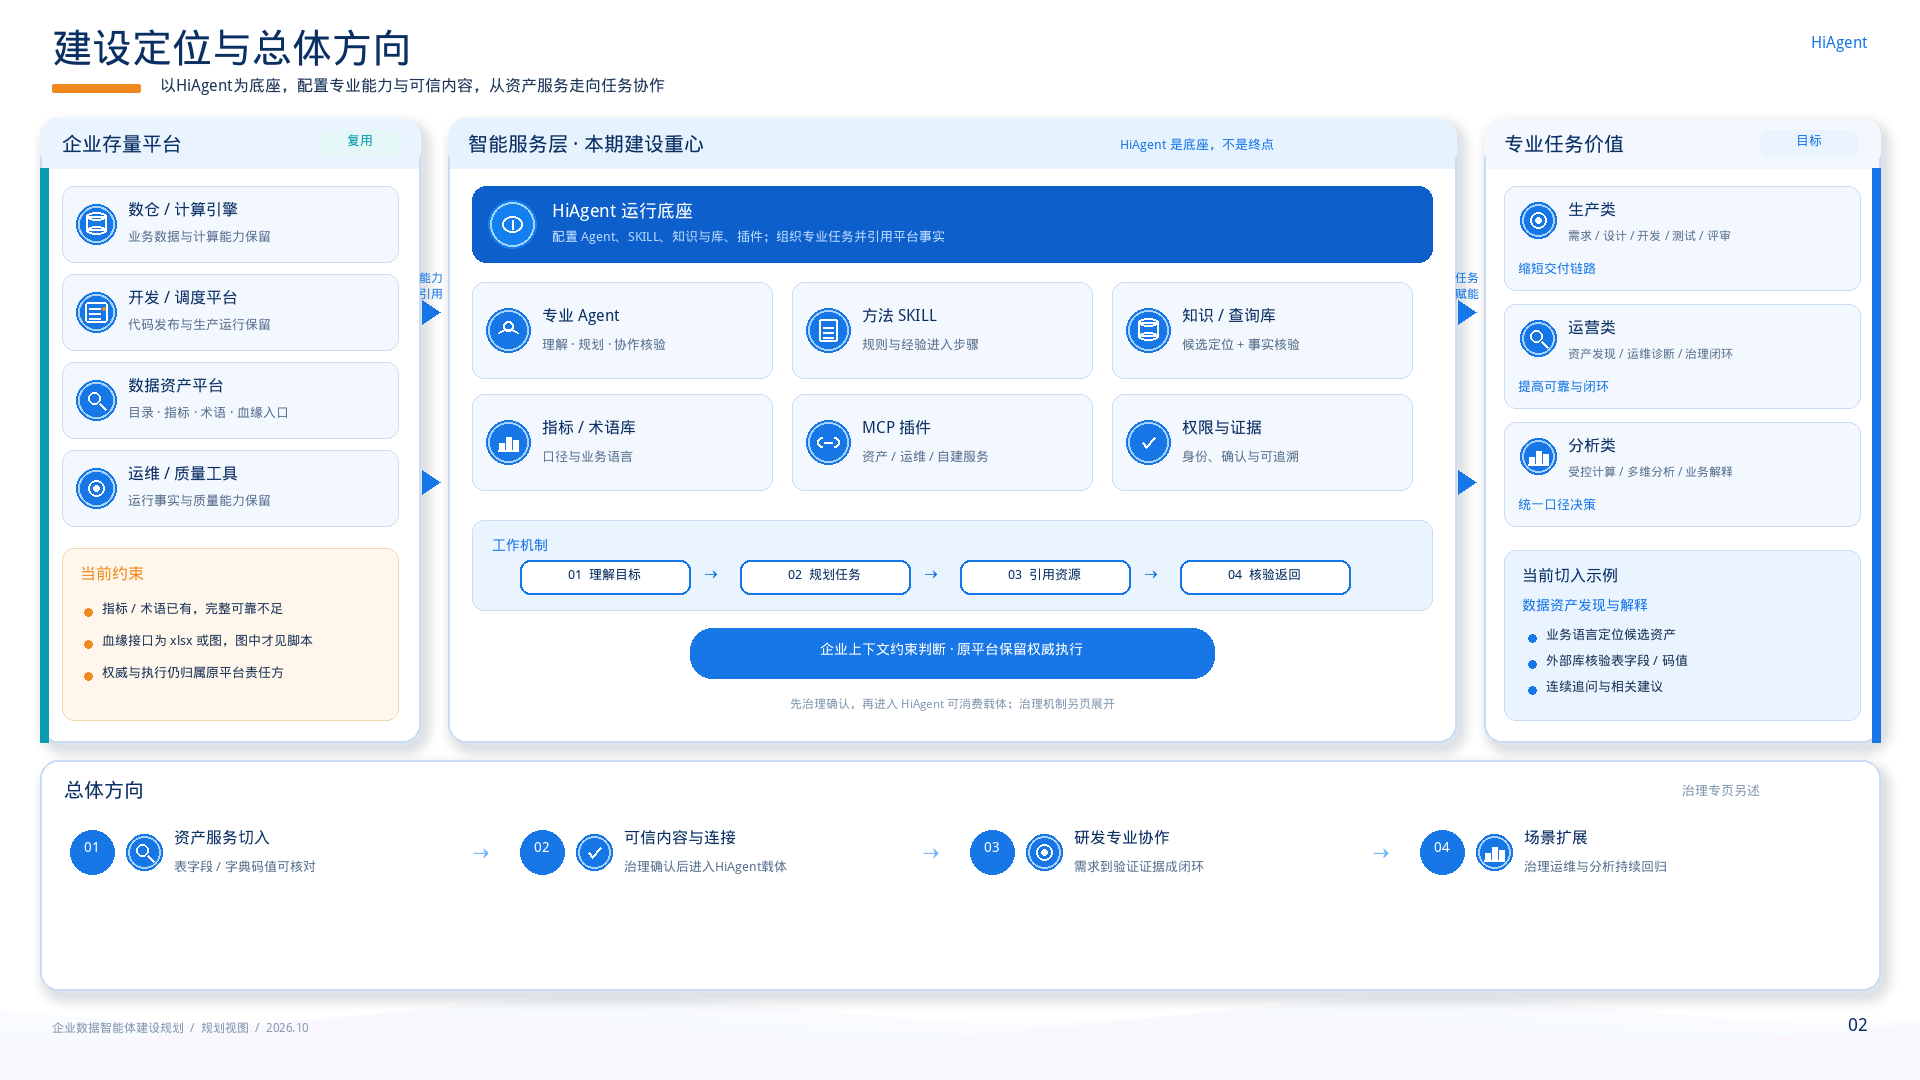
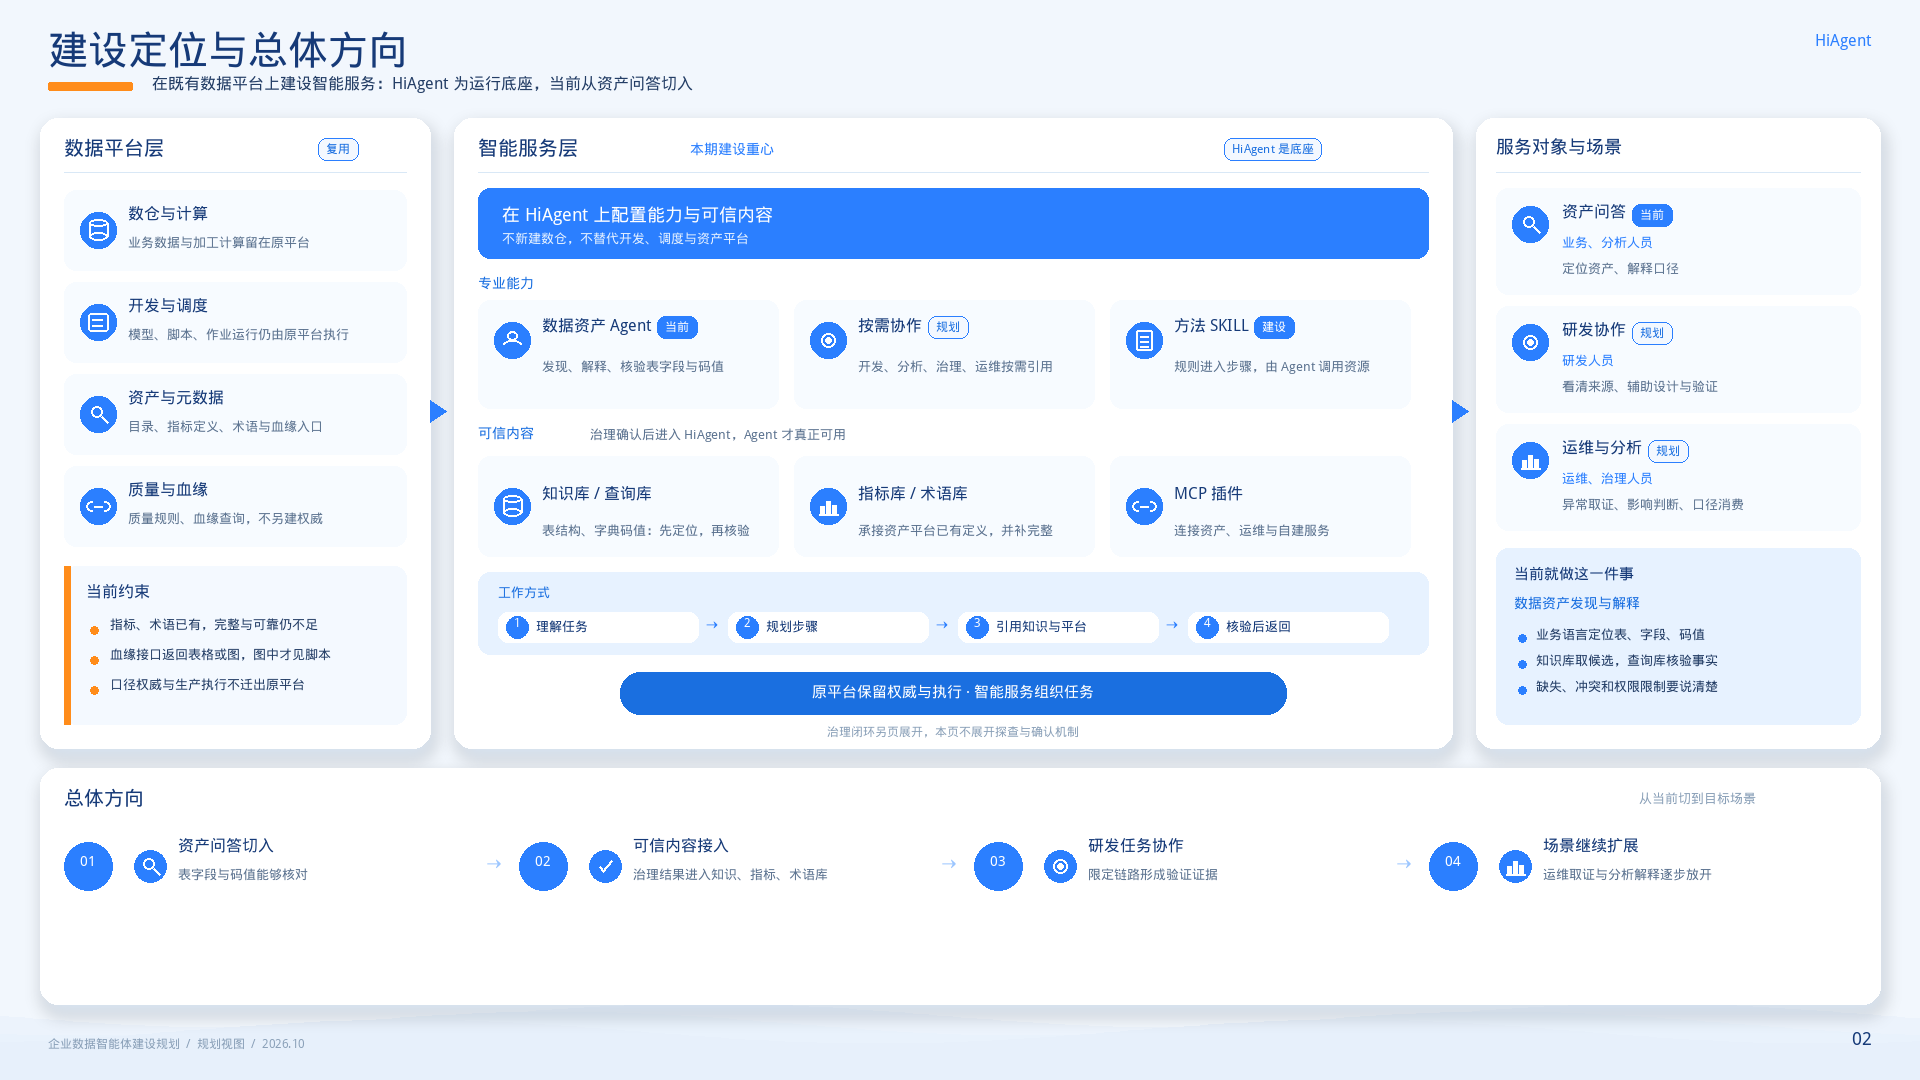
docs: 按客户架构分层重调第02页内容与配色
保留左中右加底栏，配色改为浅蓝底白卡片；内容改为数据平台层、智能服务层与服务场景，并标明当前与规划边界。

diff --git a/docs/planning/hiagent-leadership-report/v7-illustrated/pages/02.py b/docs/planning/hiagent-leadership-report/v7-illustrated/pages/02.py
@@ -1,100 +1,98 @@
 s=new('建设定位与总体方向｜在既有平台上建设智能服务层','一、场景与价值')
-# Layout mirrors reference scenario pages: left reuse / center build focus / right value / bottom direction.
+# Left: data platform to reuse. Center: HiAgent service focus. Right: audiences and scenes.
 
-# LEFT — enterprise platforms to reuse, with current constraints.
-surface(s,.42,1.14,2.95,5.20,WHITE,BORDER)
-surface(s,.42,1.14,2.95,.42,PALE,None)
-tx(s,.58,1.20,1.70,.30,'企业存量平台',16,TITLE,True)
-strip(s,2.45,1.20,.75,'复用',MINT,TEAL,11,h=.28)
-box(s,.42,1.56,.045,4.78,TEAL)
+surface(s,.38,1.12,3.05,5.28,WHITE,BORDER)
+tx(s,.54,1.22,1.70,.28,'数据平台层',16,TITLE,True)
+strip(s,2.35,1.22,.88,'复用',PALE,BLUE,11,h=.28)
+line(s,.54,1.62,3.22,1.62,BORDER,.6)
 for i,(title,body,kind) in enumerate([
-    ('数仓 / 计算引擎','业务数据与计算能力保留','data'),
-    ('开发 / 调度平台','代码发布与生产运行保留','code'),
-    ('数据资产平台','目录 · 指标 · 术语 · 血缘入口','search'),
-    ('运维 / 质量工具','运行事实与质量能力保留','platform'),
+    ('数仓与计算','业务数据与加工计算留在原平台','data'),
+    ('开发与调度','模型、脚本、作业运行仍由原平台执行','code'),
+    ('资产与元数据','目录、指标定义、术语与血缘入口','search'),
+    ('质量与血缘','质量规则、血缘查询，不另建权威','flow'),
 ]):
-    yy=1.70+i*.72
-    surface(s,.58,yy,2.62,.64,SOFT,None)
-    iso(s,.68,yy+.05,.42,kind)
-    tx(s,1.20,yy+.08,1.88,.24,title,12.5,TITLE,True)
-    tx(s,1.20,yy+.34,1.88,.24,body,10,GRAY)
-surface(s,.58,4.70,2.62,1.48,SAND,None)
-tx(s,.72,4.80,2.30,.24,'当前约束',13,AMBER,True)
-for i,t in enumerate(['指标 / 术语已有，完整可靠不足','血缘接口为xlsx或图，图中才见脚本','权威与执行仍归属原平台责任方']):
-    tx(s,.72,5.16+i*.28,2.30,.26,'· '+t,10,INK)
+    yy=1.76+i*.72
+    surface(s,.54,yy,2.72,.64,SOFT,None)
+    iso(s,.64,yy+.08,.40,kind)
+    tx(s,1.16,yy+.06,1.98,.24,title,13,TITLE,True)
+    tx(s,1.16,yy+.32,1.98,.24,body,10,GRAY)
+surface(s,.54,4.72,2.72,1.50,'#F4F9FF',None)
+box(s,.54,4.72,.045,1.50,ORANGE)
+tx(s,.72,4.82,2.40,.24,'当前约束',13,TITLE,True)
+for i,t in enumerate(['指标、术语已有，完整与可靠仍不足','血缘接口返回表格或图，图中才见脚本','口径权威与生产执行不迁出原平台']):
+    tx(s,.72,5.16+i*.30,2.40,.26,'· '+t,10,INK)
 
-# CENTER — HiAgent as runtime base and configuration focus.
-surface(s,3.55,1.14,6.55,5.20,WHITE,BORDER)
-surface(s,3.55,1.14,6.55,.42,PALE,None)
-tx(s,3.72,1.20,3.80,.30,'智能服务层 · 本期建设重心',16,TITLE,True)
-tx(s,7.55,1.22,2.35,.26,'HiAgent是底座，不是终点',11,BLUE,True,'right')
-surface(s,3.72,1.70,6.20,.58,DEEP,None)
-iso(s,3.86,1.76,.42,'platform')
-tx(s,4.40,1.76,5.30,.24,'HiAgent运行底座',15,WHITE,True)
-tx(s,4.40,2.02,5.30,.20,'配置Agent、SKILL、知识与库、插件；组织专业任务并引用平台事实',10.5,'B9DAFF')
+surface(s,3.58,1.12,6.22,5.28,WHITE,BORDER)
+tx(s,3.74,1.22,1.80,.28,'智能服务层',16,TITLE,True)
+tx(s,5.50,1.24,1.50,.24,'本期建设重心',12,BLUE,True)
+strip(s,8.05,1.22,1.55,'HiAgent是底座',PALE,BLUE,11,h=.28)
+line(s,3.74,1.62,9.60,1.62,BORDER,.6)
+surface(s,3.74,1.76,5.88,.62,BLUE,None)
+tx(s,3.92,1.84,5.52,.26,'在HiAgent上配置能力与可信内容',15,WHITE,True)
+tx(s,3.92,2.12,5.52,.20,'不新建数仓，不替代开发、调度与资产平台',11,'E4F0FF')
+tx(s,3.74,2.48,1.40,.22,'专业能力',12,BLUE,True)
+for i,(title,body,tag,kind) in enumerate([
+    ('数据资产Agent','发现、解释、核验表字段与码值','当前','people'),
+    ('按需协作','开发、分析、治理、运维按需引用','规划','code'),
+    ('方法SKILL','规则进入步骤，由Agent调用资源','建设','document'),
+]):
+    xx=3.74+i*1.98
+    surface(s,xx,2.74,1.90,.92,SOFT,None)
+    iso(s,xx+.08,2.86,.36,kind)
+    tx(s,xx+.50,2.82,1.32,.22,title,12,TITLE,True)
+    tx(s,xx+.50,3.06,1.32,.20,tag,10,BLUE,True)
+    tx(s,xx+.12,3.32,1.66,.26,body,10,GRAY)
+tx(s,3.74,3.76,1.20,.22,'可信内容',12,BLUE,True)
+tx(s,4.90,3.76,4.50,.22,'治理确认后进入HiAgent，Agent才真正可用',11,GRAY)
 for i,(title,body,kind) in enumerate([
-    ('专业Agent','理解 · 规划 · 协作核验','people'),
-    ('方法SKILL','规则与经验进入步骤','document'),
-    ('知识 / 查询库','候选定位 + 事实核验','data'),
-    ('指标 / 术语库','口径与业务语言','chart'),
-    ('MCP插件','资产 / 运维 / 自建服务','flow'),
-    ('权限与证据','身份、确认与可追溯','check'),
+    ('知识库 / 查询库','表结构、字典码值：先定位，再核验','data'),
+    ('指标库 / 术语库','承接资产平台已有定义，并补完整','chart'),
+    ('MCP插件','连接资产、运维与自建服务','flow'),
 ]):
-    xx=3.72+(i%3)*2.10; yy=2.46+(i//3)*.95
-    surface(s,xx,yy,1.98,.84,SOFT,None)
-    iso(s,xx+.10,yy+.12,.42,kind)
-    tx(s,xx+.60,yy+.14,1.26,.26,title,12.5,TITLE,True)
-    tx(s,xx+.60,yy+.46,1.26,.28,body,10,GRAY)
-surface(s,3.72,4.46,6.20,.78,PALE,None)
-tx(s,3.88,4.52,1.20,.22,'工作机制',11,BLUE,True)
-for i,lab in enumerate(['01 理解目标','02 规划任务','03 引用资源','04 核验返回']):
-    xx=3.88+i*1.52
-    strip(s,xx,4.82,1.30,lab,WHITE,TITLE,10.5,h=.28)
-    if i<3:tx(s,xx+1.32,4.80,.18,.28,'→',14,BLUE,True,'center')
-strip(s,4.70,5.40,4.20,'企业上下文约束判断 · 原平台保留权威执行',BLUE,WHITE,12,h=.36)
-tx(s,3.72,5.88,6.20,.28,'先治理确认，再进入HiAgent可消费载体；治理机制另页展开',10,GRAY,align='center')
+    xx=3.74+i*1.98
+    surface(s,xx,4.04,1.90,.78,SOFT,None)
+    iso(s,xx+.08,4.14,.34,kind)
+    tx(s,xx+.50,4.12,1.32,.22,title,12,TITLE,True)
+    tx(s,xx+.50,4.40,1.32,.32,body,10,GRAY)
+surface(s,3.74,4.96,5.88,.70,PALE,None)
+tx(s,3.88,5.02,1.20,.20,'工作方式',11,BLUE,True)
+for i,lab in enumerate(['1 理解任务','2 规划步骤','3 引用知识与平台','4 核验后返回']):
+    strip(s,3.88+i*1.45,5.30,1.28,lab,WHITE,TITLE,10,h=.26)
+strip(s,4.55,5.78,4.20,'原平台保留权威与执行 · 智能服务组织任务',BLUE,WHITE,12,h=.32)
+tx(s,3.74,6.16,5.88,.20,'治理闭环另页展开，本页不展开探查与确认机制',10,GRAY,align='center')
 
-# RIGHT — professional task value and current entry example.
-surface(s,10.28,1.14,2.68,5.20,WHITE,BORDER)
-surface(s,10.28,1.14,2.68,.42,SOFT,None)
-tx(s,10.44,1.20,1.70,.30,'专业任务价值',16,TITLE,True)
-strip(s,12.10,1.20,.68,'目标',PALE,BLUE,11,h=.28)
-box(s,12.91,1.56,.05,4.78,BLUE)
-for i,(title,body,value,kind) in enumerate([
-    ('生产类','需求 / 设计 / 开发 / 测试 / 评审','缩短交付链路','code'),
-    ('运营类','资产发现 / 运维诊断 / 治理闭环','提高可靠与闭环','search'),
-    ('分析类','受控计算 / 多维分析 / 业务解释','统一口径决策','chart'),
+surface(s,9.96,1.12,2.98,5.28,WHITE,BORDER)
+tx(s,10.12,1.22,2.60,.28,'服务对象与场景',16,TITLE,True)
+line(s,10.12,1.62,12.74,1.62,BORDER,.6)
+for i,(title,who,body,tag,kind) in enumerate([
+    ('资产问答','业务、分析人员','定位资产、解释口径','当前','search'),
+    ('研发协作','研发人员','看清来源、辅助设计与验证','规划','code'),
+    ('运维与分析','运维、治理人员','异常取证、影响判断、口径消费','规划','chart'),
 ]):
-    yy=1.70+i*.92
-    surface(s,10.44,yy,2.36,.82,SOFT,None)
-    iso(s,10.54,yy+.08,.38,kind)
-    tx(s,11.00,yy+.08,1.68,.24,title,13,TITLE,True)
-    tx(s,11.00,yy+.34,1.68,.22,body,9.5,GRAY)
-    tx(s,10.54,yy+.56,2.10,.20,value,11,BLUE,True)
-surface(s,10.44,4.55,2.36,1.63,PALE,None)
-tx(s,10.58,4.64,2.08,.24,'当前切入示例',13,TITLE,True)
-tx(s,10.58,4.94,2.08,.22,'数据资产发现与解释',11.5,BLUE,True)
-for i,t in enumerate(['业务语言定位候选资产','外部库核验表字段 / 码值','连续追问与相关建议']):
-    tx(s,10.58,5.28+i*.26,2.08,.24,'· '+t,10,INK)
+    yy=1.78+i*.95
+    surface(s,10.12,yy,2.66,.86,SOFT,None)
+    iso(s,10.22,yy+.10,.36,kind)
+    tx(s,10.68,yy+.08,1.20,.22,title,13,TITLE,True)
+    tx(s,11.90,yy+.08,.78,.22,tag,11,BLUE,True,'right')
+    tx(s,10.68,yy+.32,1.96,.20,who,11,BLUE)
+    tx(s,10.68,yy+.54,1.96,.24,body,10,GRAY)
+surface(s,10.12,4.70,2.66,1.52,PALE,None)
+tx(s,10.26,4.80,2.38,.22,'当前就做这一件事',13,TITLE,True)
+tx(s,10.26,5.06,2.38,.22,'数据资产发现与解释',12,BLUE,True)
+for i,t in enumerate(['业务语言定位表、字段、码值','知识库取候选，查询库核验事实','缺失、冲突和权限限制要说清楚']):
+    tx(s,10.26,5.36+i*.26,2.38,.24,'· '+t,10,INK)
 
-# Connector labels between columns.
-tx(s,3.35,2.55,.22,.50,'能力\n引用',9,BLUE,True,'center')
-tx(s,10.05,2.55,.22,.50,'任务\n赋能',9,BLUE,True,'center')
-
-# BOTTOM — overall direction as first-class conclusion.
-surface(s,.42,6.48,12.54,0.72,WHITE,BORDER)
-tx(s,.58,6.54,1.40,.22,'总体方向',14,TITLE,True)
-tx(s,10.80,6.54,2.00,.20,'治理专页另述',10,GRAY,align='right')
-for i,(lab,body,kind) in enumerate([
-    ('01 资产服务切入','表字段 / 字典码值可核对','search'),
-    ('02 可信内容与连接','治理确认后进入HiAgent载体','check'),
-    ('03 研发专业协作','需求到验证证据成闭环','code'),
-    ('04 场景扩展','治理运维与分析持续回归','chart'),
+surface(s,.38,6.52,12.56,.70,WHITE,BORDER)
+tx(s,.54,6.56,1.50,.20,'总体方向',13,TITLE,True)
+for i,(lab,body) in enumerate([
+    ('01 资产问答切入','表字段与码值能够核对'),
+    ('02 可信内容接入','治理结果进入知识、指标、术语库'),
+    ('03 研发任务协作','限定链路形成验证证据'),
+    ('04 场景继续扩展','运维取证与分析解释逐步放开'),
 ]):
-    xx=.58+i*3.10
-    iso(s,xx,6.78,.28,kind)
-    tx(s,xx+.36,6.76,2.40,.22,lab,12,TITLE,True)
-    tx(s,xx+.36,6.98,2.40,.18,body,9.5,GRAY)
-    if i<3:tx(s,xx+2.78,6.84,.24,.24,'→',14,BLUE,True,'center')
+    xx=.54+i*3.10
+    tx(s,xx,6.78,2.70,.20,lab,12,TITLE,True)
+    tx(s,xx,6.98,2.70,.18,body,10,GRAY)
+    if i<3:tx(s,xx+2.72,6.82,.28,.22,'→',14,BLUE,True)
 
-n(s,'本页只讲定位、边界与方向。HiAgent是运行底座，建设重心是在其上配置Agent、SKILL、知识库、查询库、指标库、术语库与MCP插件。复用数仓、开发、调度与资产平台，原平台保留权威与执行。资产平台已有指标与术语，但完整可靠不足，且须导入HiAgent侧载体后Agent才有效。血缘现状为接口返回xlsx或图。总体方向：资产服务切入→可信内容与连接补强→研发协作→场景扩展。治理机制另页展开。')
+n(s,'本页保持左平台、中服务、右场景、底方向。HiAgent是运行底座。当前只建设数据资产Agent，其他专业Agent为规划，不单列协调器。SKILL提供方法，由Agent调用资源。指标与术语需治理确认后进入HiAgent指标库和术语库。血缘现状为表格或图。客户架构图只借鉴分层，不移植NL2SQL等名称作为已建设能力。')

diff --git a/docs/planning/hiagent-leadership-report/v7-illustrated/逐页汇报提纲.md b/docs/planning/hiagent-leadership-report/v7-illustrated/逐页汇报提纲.md
@@ -10,21 +10,23 @@
 
 本页只回答三件事：我们在企业数据体系中站哪、建什么与不建什么、总体往哪走。不展开治理机制、MCP清单、三类九种全表或场景细节；这些分别由后续专页承担。
 
-建议主视觉改为「定位判断 + 方向路径」，取消左右对称泛化 IPO 与中心大装饰堆块。
+版式保持「左平台、中服务、右场景、底方向」。配色对齐参考方案的浅蓝底、白卡片与亮蓝强调，不用大面积深色块。
 
 页面内容骨架：
 
-1. 一句话定位（标题区或主区顶部）  
-   在既有数据平台之上建设企业数据智能服务层：以 HiAgent 为运行底座，配置专业能力与可信内容，组织业务任务并引用平台事实；不替代数仓、开发、调度与资产平台的权威与执行。
+1. 左侧数据平台层（复用）  
+   数仓与计算、开发与调度、资产与元数据、质量与血缘。底部写当前约束：指标与术语已有但完整可靠不足；血缘接口返回表格或图；口径权威与生产执行不迁出原平台。
 
-2. 三列建设边界（主区）  
-   - 复用的企业存量：数仓/计算、数据开发与调度、数据资产平台（目录、指标、术语、血缘入口）、运维与质量工具。标注现状约束——指标与术语已有但不完整不可靠；血缘接口现为 xlsx 或图，图中才见字段加工脚本。  
-   - 本期建设重心（智能服务层）：在 HiAgent 上配置 Agent、SKILL、知识库、查询库、指标库、术语库与插件（MCP）。职责是理解任务、规划步骤、检索核验、按需协作；HiAgent 本身是基础设施。  
-   - 目标价值方向：覆盖数据生产、运营、分析三类专业任务；九种角色在本页只作缩略露出，详图见能力地图。
+2. 中间智能服务层（本期建设重心）  
+   HiAgent 是运行底座。专业能力只强调三块：数据资产 Agent（当前）、按需协作的其他专业 Agent（规划，不单列协调器）、方法 SKILL。可信内容为知识库/查询库、指标库/术语库、MCP 插件，并写明治理确认后进入 HiAgent，Agent 才真正可用。工作方式为理解任务、规划步骤、引用知识与平台、核验后返回。
 
-3. 总体方向条（底部主结论，不要只放页脚）  
-   当前切入资产发现与解释 → 补强可信内容供给与平台连接 → 扩展研发协作 → 走向治理运维与分析场景。  
-   同步点明：可信内容治理是支撑方向，机制另页展开。
+3. 右侧服务对象与场景  
+   资产问答为当前，服务业务与分析人员；研发协作、运维与分析为目标场景。当前就做数据资产发现与解释：业务语言定位，知识库取候选，查询库核验事实。
+
+4. 底部总体方向  
+   资产问答切入 → 可信内容接入 → 研发任务协作 → 场景继续扩展。治理探查与确认机制不在本页展开。
+
+客户架构图只借鉴分层（平台、知识、智能体、场景与人群）。不把其中的协调器 Agent、NL2SQL、NL2Pipeline、NL2Metrics 写成已建设能力。
 
 讲述要点：智能服务有效的前提是可信企业上下文；资产平台内容不能直接当作已可消费的 Agent 上下文，需要治理确认后再进入 HiAgent 侧载体。公开方法可借鉴 Purview 元数据健康控制与 OpenMetadata「规则定义—落到资产—成套执行」分层，不把外部产品能力写成已建设。
 
